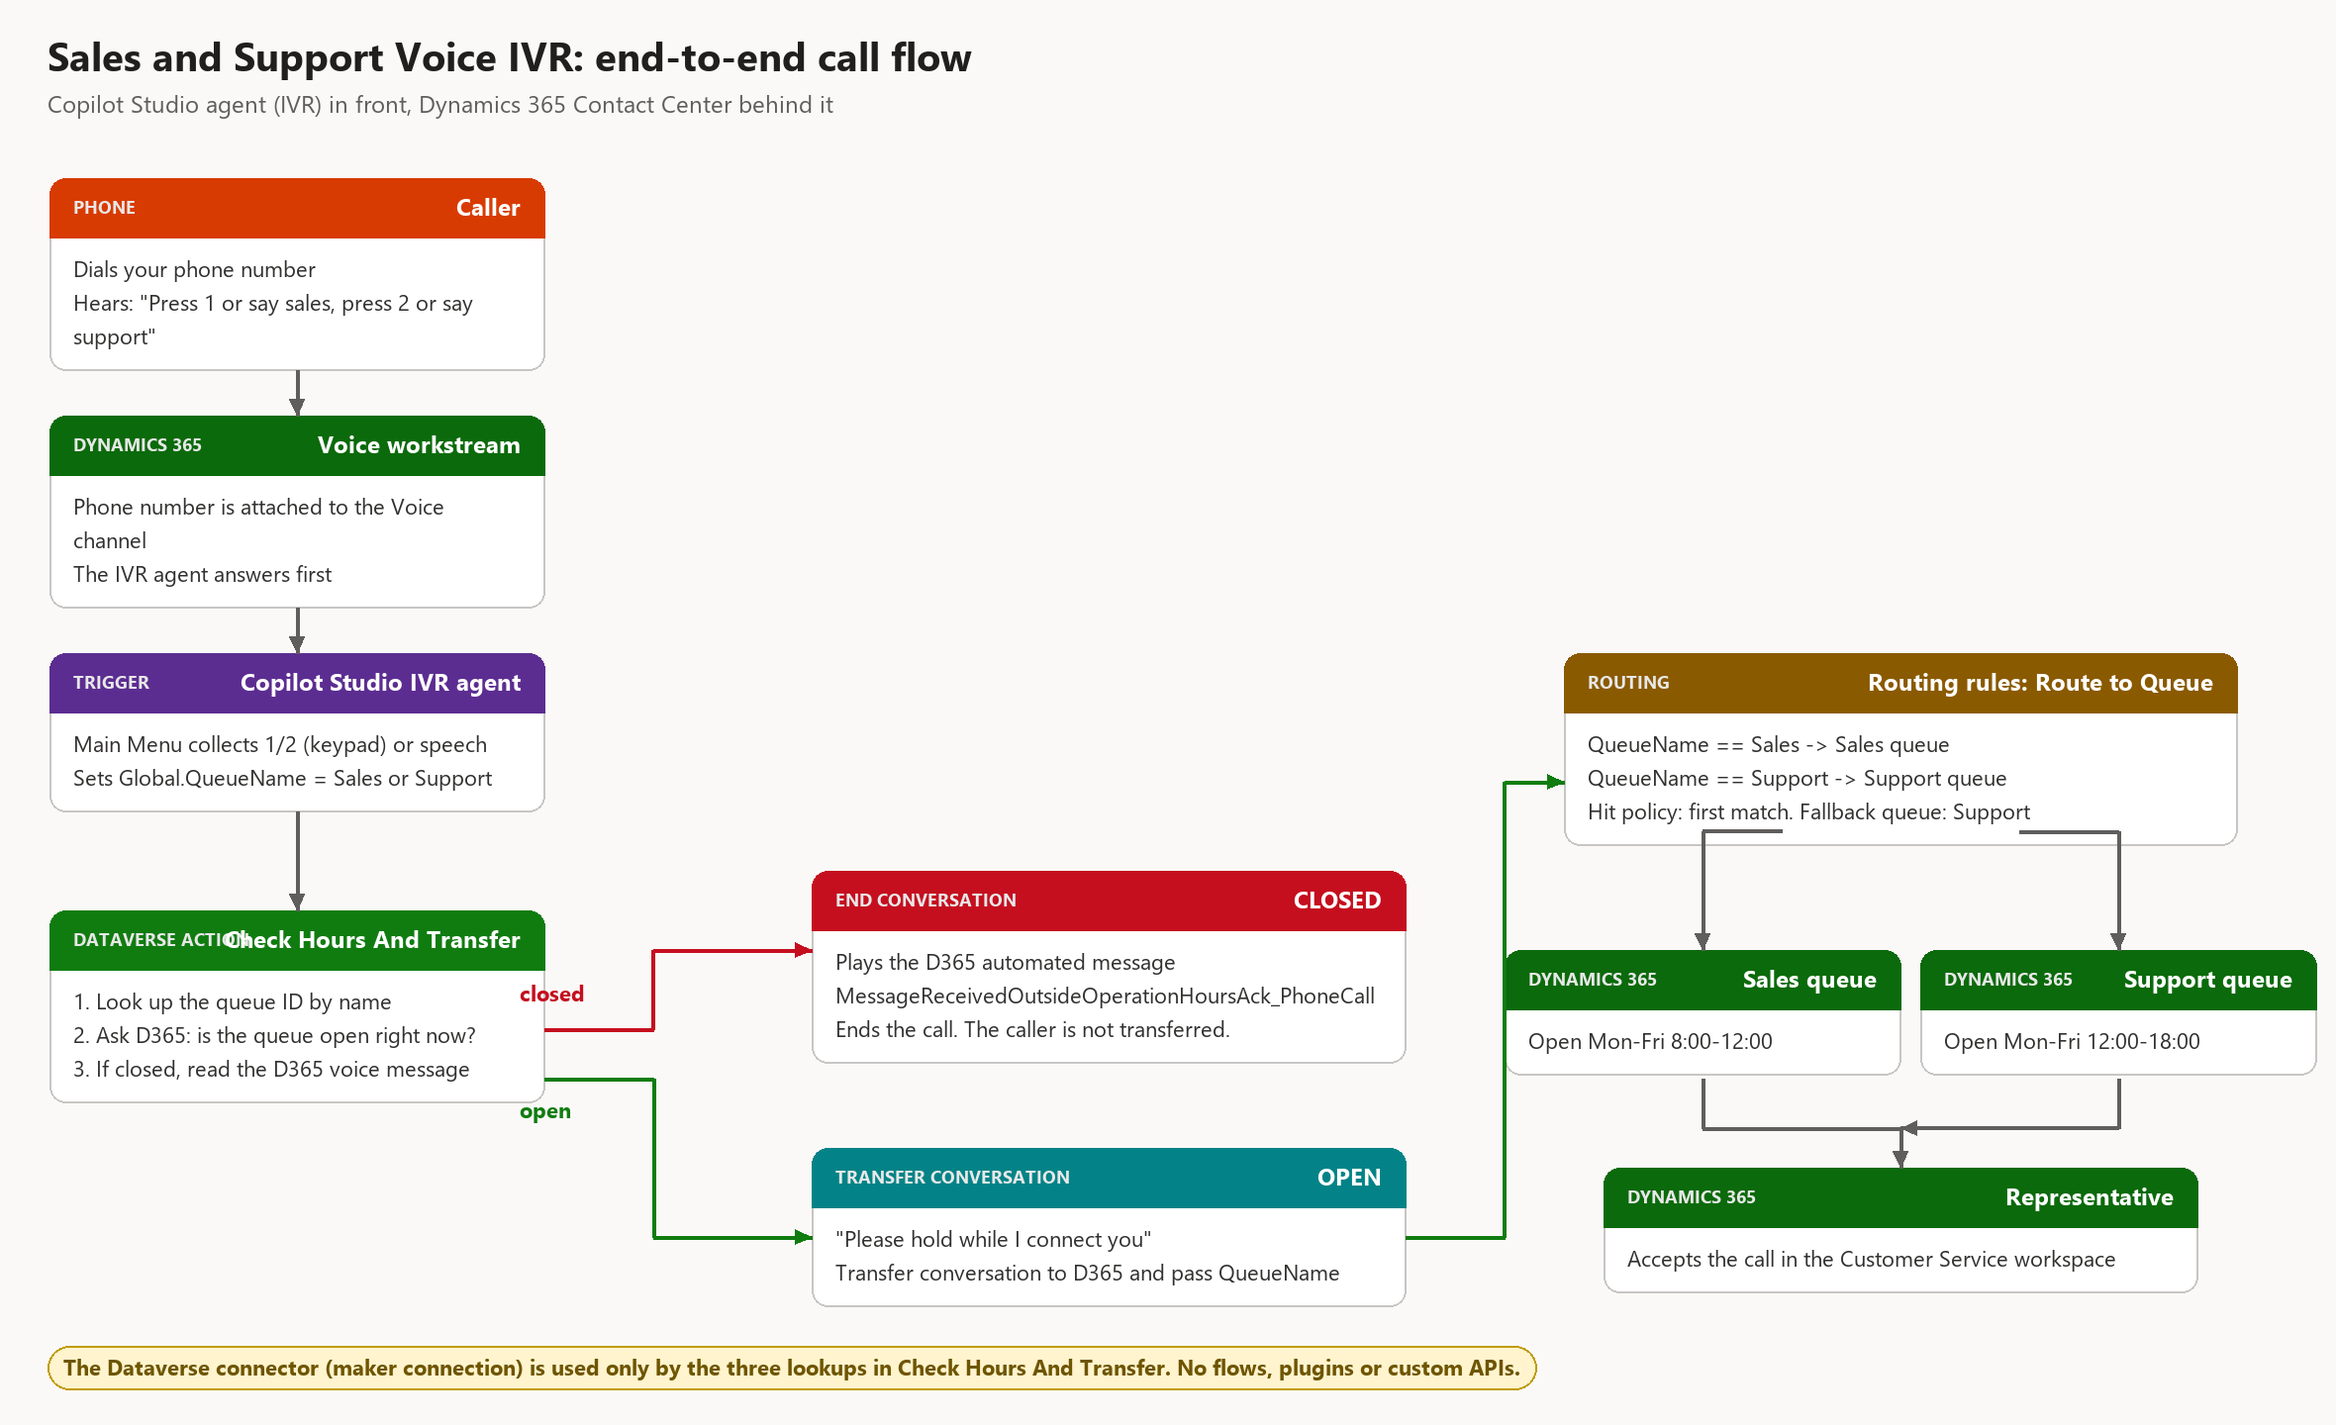
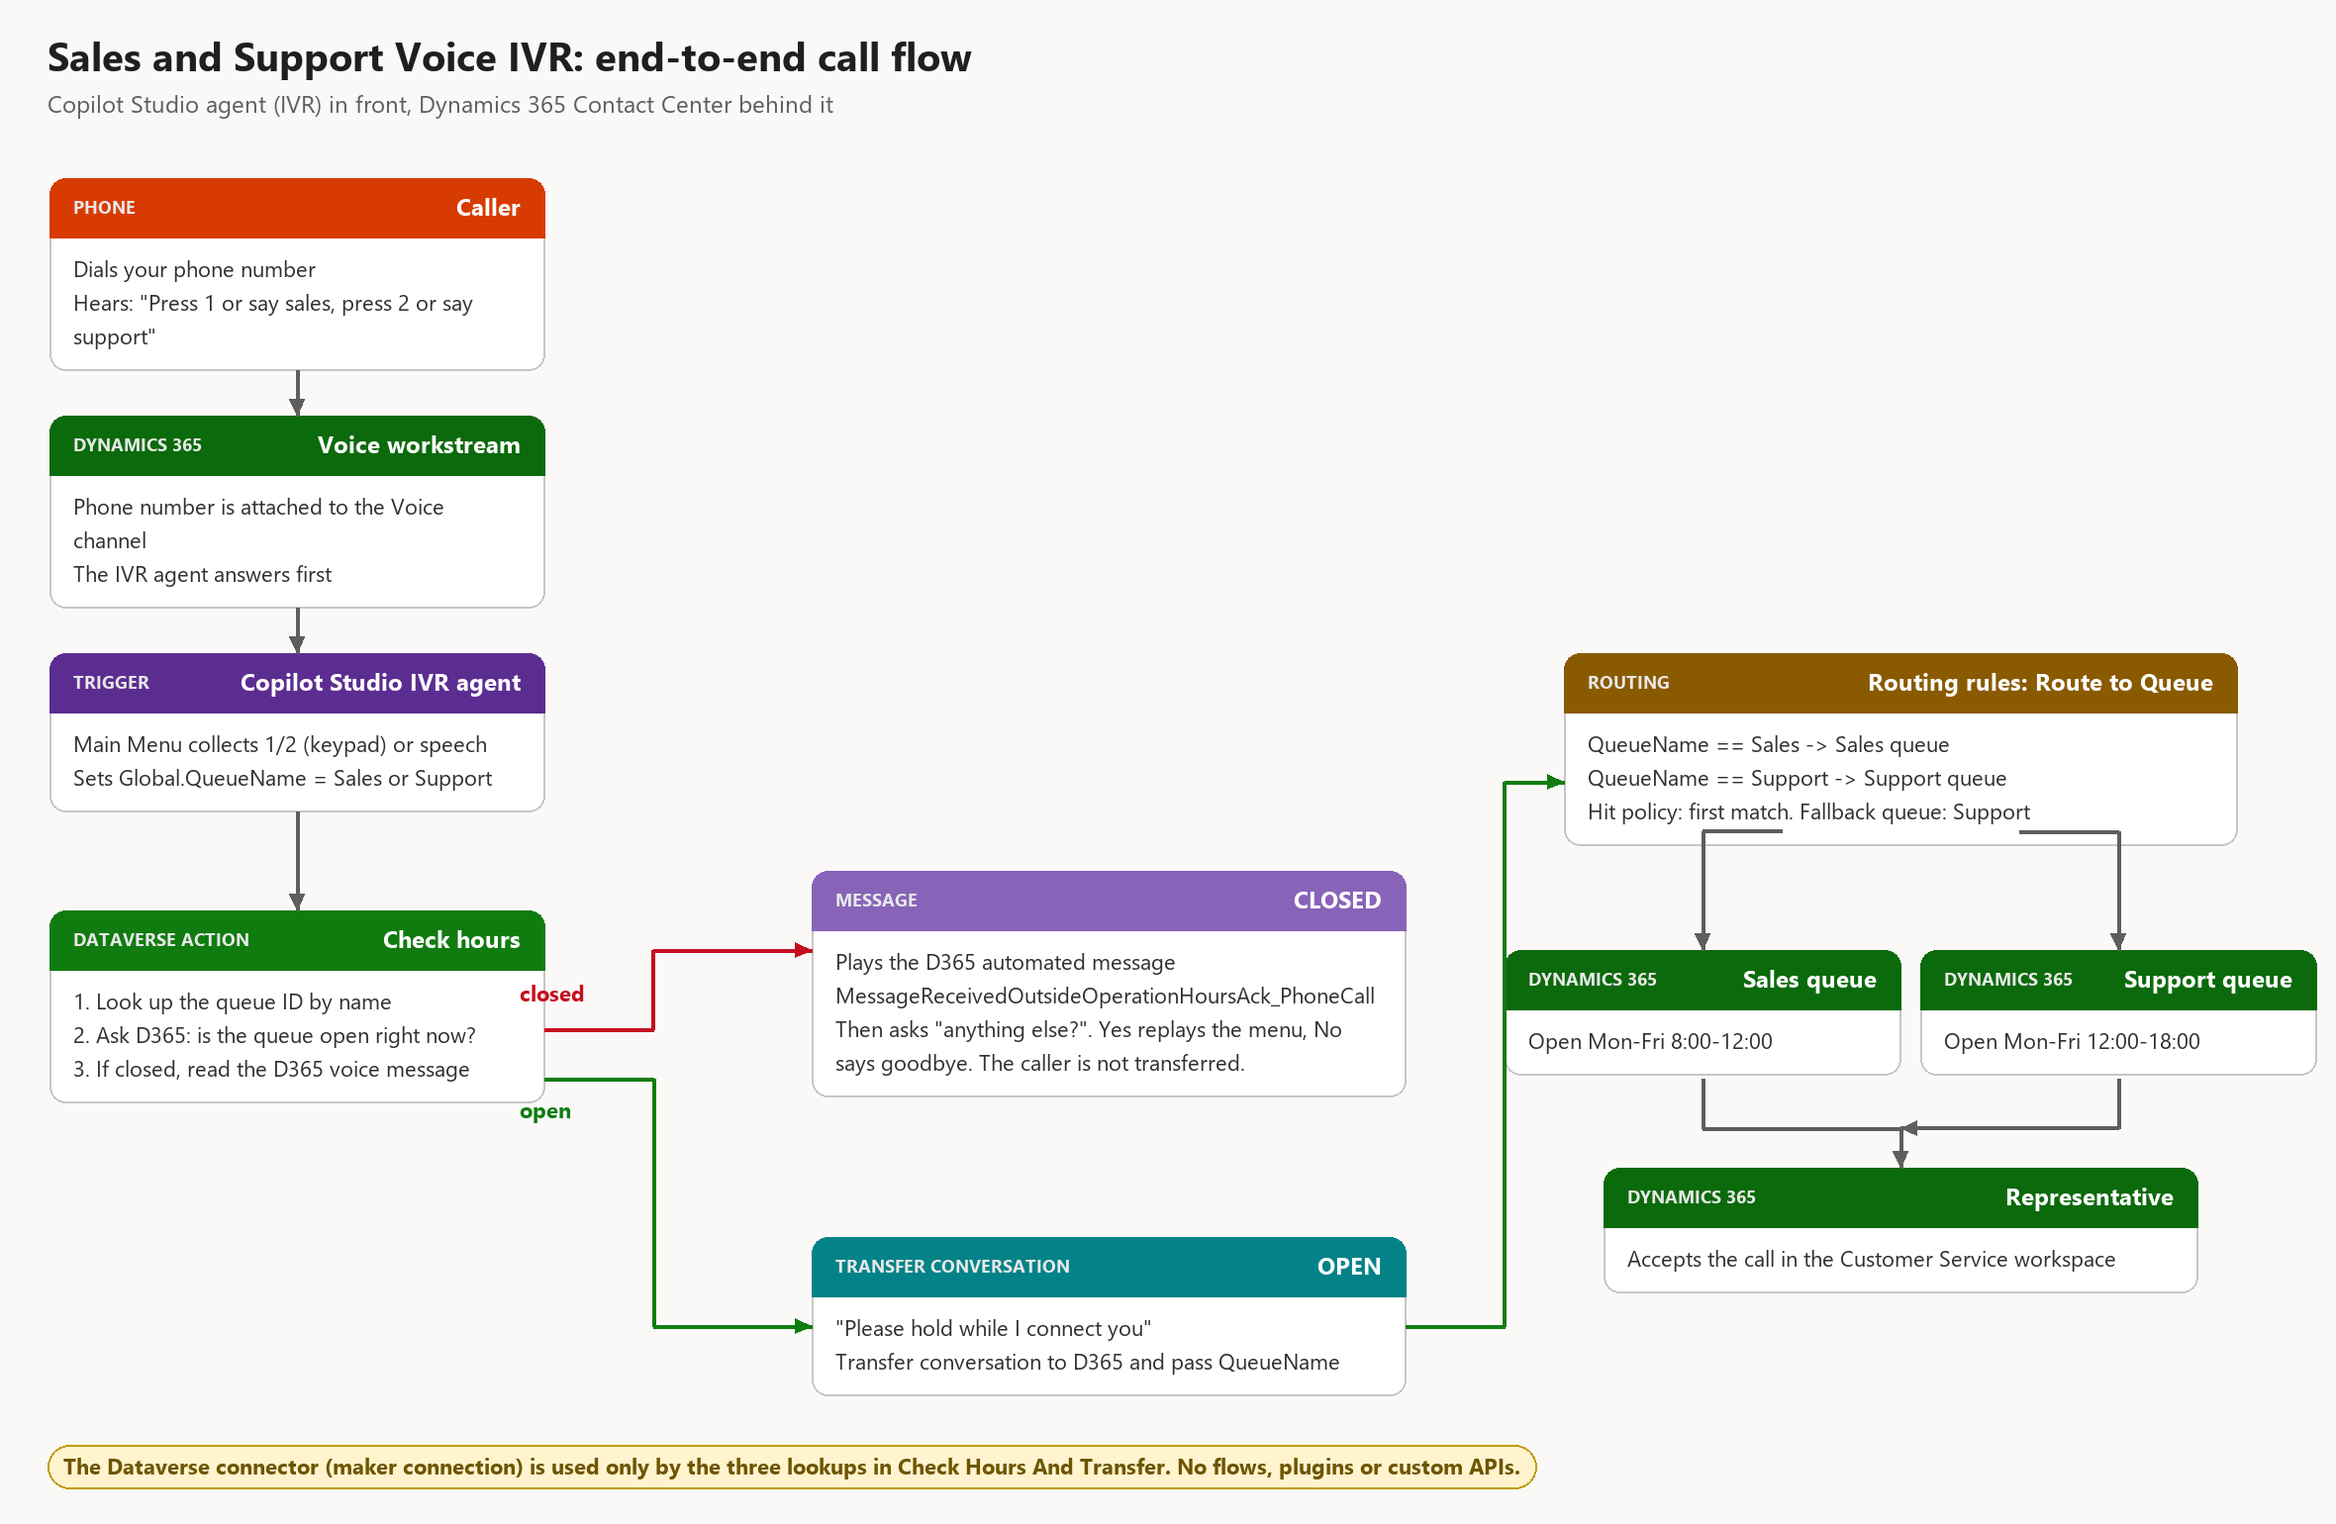
v1.0.1: keep the call open on a closed queue
After the out-of-operating-hours message, ask if there is anything else:
Yes replays the menu, No says goodbye and ends. Multi-turn test script,
updated docs, diagrams and screenshots, re-exported solution 1.0.1.0.

diff --git a/docs/tools/make_diagrams.py b/docs/tools/make_diagrams.py
@@ -105,32 +105,32 @@ class Canvas:
 
 
 def architecture():
-    c = Canvas(1180, 720, 'Sales and Support Voice IVR: end-to-end call flow',
+    c = Canvas(1180, 770, 'Sales and Support Voice IVR: end-to-end call flow',
                'Copilot Studio agent (IVR) in front, Dynamics 365 Contact Center behind it')
     W = 250
     caller = c.card(150, 90, W, 'phone', 'Caller', ['Dials your phone number', 'Hears: "Press 1 or say sales, press 2 or say support"'])
     ws = c.card(150, 210, W, 'd365', 'Voice workstream', ['Phone number is attached to the Voice channel', 'The IVR agent answers first'])
     bot = c.card(150, 330, W, 'start', 'Copilot Studio IVR agent', ['Main Menu collects 1/2 (keypad) or speech', 'Sets Global.QueueName = Sales or Support'])
-    chk = c.card(150, 460, W, 'connector', 'Check Hours And Transfer', ['1. Look up the queue ID by name', '2. Ask D365: is the queue open right now?', '3. If closed, read the D365 voice message'])
+    chk = c.card(150, 460, W, 'connector', 'Check hours', ['1. Look up the queue ID by name', '2. Ask D365: is the queue open right now?', '3. If closed, read the D365 voice message'])
     c.down(caller, ws)
     c.down(ws, bot)
     c.down(bot, chk)
 
-    closed = c.card(560, 440, 300, 'end', 'CLOSED', ['Plays the D365 automated message', 'MessageReceivedOutsideOperationHoursAck_PhoneCall', 'Ends the call. The caller is not transferred.'])
-    opn = c.card(560, 580, 300, 'transfer', 'OPEN', ['"Please hold while I connect you"', 'Transfer conversation to D365 and pass QueueName'])
+    closed = c.card(560, 440, 300, 'message', 'CLOSED', ['Plays the D365 automated message', 'MessageReceivedOutsideOperationHoursAck_PhoneCall', 'Then asks "anything else?". Yes replays the menu, No says goodbye. The caller is not transferred.'])
+    opn = c.card(560, 625, 300, 'transfer', 'OPEN', ['"Please hold while I connect you"', 'Transfer conversation to D365 and pass QueueName'])
     c.arrow([(275, 520), (330, 520), (330, 480), (410, 480)], 'closed', '#c50f1f', lx=-40, ly=-26)
-    c.arrow([(275, 545), (330, 545), (330, 625), (410, 625)], 'open', '#107c10', lx=-40, ly=8)
+    c.arrow([(275, 545), (330, 545), (330, 670), (410, 670)], 'open', '#107c10', lx=-40, ly=8)
 
     rule = c.card(960, 330, 340, 'rule', 'Routing rules: Route to Queue', ['QueueName == Sales -> Sales queue', 'QueueName == Support -> Support queue', 'Hit policy: first match. Fallback queue: Support'])
     sq = c.card(860, 480, 200, 'd365', 'Sales queue', ['Open Mon-Fri 8:00-12:00'])
     pq = c.card(1070, 480, 200, 'd365', 'Support queue', ['Open Mon-Fri 12:00-18:00'])
     rep = c.card(960, 590, 300, 'd365', 'Representative', ['Accepts the call in the Customer Service workspace'])
-    c.arrow([(710, 625), (760, 625), (760, 395), (790, 395)], 'QueueName', '#107c10', lx=-78, ly=130)
+    c.arrow([(710, 670), (760, 670), (760, 395), (790, 395)], 'QueueName', '#107c10', lx=-78, ly=130)
     c.arrow([(900, 420 + 0), (860, 420 + 0), (860, 480)])
     c.arrow([(1020, 420), (1070, 420), (1070, 480)])
     c.arrow([(860, 545), (860, 570), (960, 570), (960, 590)])
     c.arrow([(1070, 545), (1070, 570), (960, 570)])
-    c.tag(24, 680, 'The Dataverse connector (maker connection) is used only by the three lookups in Check Hours And Transfer. No flows, plugins or custom APIs.')
+    c.tag(24, 730, 'The Dataverse connector (maker connection) is used only by the three lookups in Check Hours And Transfer. No flows, plugins or custom APIs.')
     c.save('01-architecture.png')
 
 
@@ -159,7 +159,7 @@ def conv_start_menu():
 
 
 def check_hours():
-    c = Canvas(1260, 1190, 'Topic: Check Hours And Transfer', 'cr_salesandsupportivr.topic.CheckHoursAndTransfer. All three Dataverse actions use the maker connection, so callers never sign in.')
+    c = Canvas(1260, 1540, 'Topic: Check Hours And Transfer', 'cr_salesandsupportivr.topic.CheckHoursAndTransfer. All three Dataverse actions use the maker connection, so callers never sign in.')
     W = 430
     cx = 330
     n0 = c.card(cx, 80, W, 'start', 'Check Hours And Transfer', ['Recognized intent (empty). Started from Main Menu.'])
@@ -185,10 +185,16 @@ def check_hours():
     c1 = c.card(X, 790, 340, 'connector', 'CLOSED: List rows: voice message', ['Table: msdyn_ocsystemmessages', 'Row: MessageReceivedOutsideOperationHoursAck_PhoneCall', 'Reads msdyn_messagetext'])
     c2 = c.card(X, 930, 340, 'variable', 'Set variable', ['Topic.OohMessage = the D365 message, or a built-in fallback sentence'])
     c3 = c.card(X, 1016, 340, 'message', 'Message', ['Speech and text: {Topic.OohMessage}'])
-    c4 = c.card(X, 1100, 340, 'end', 'End conversation', ['The call ends. Nobody is transferred.'])
+    c4 = c.card(X, 1102, 340, 'question', 'Question: anything else?', ['"Is there anything else I can help you with? Press 1 or say yes, press 2 or say no."', 'Closed list: Yes (keypad 1), No (keypad 2)'])
+    c5 = c.card(X, 1248, 340, 'condition', 'Condition', ['AnythingElse = Yes  ->  Go to Main Menu (the menu is played again)', 'else (No)  ->  continue below'])
+    c6 = c.card(X, 1360, 340, 'message', 'Message', ['"Thank you for calling. Goodbye."'])
+    c7 = c.card(X, 1440, 340, 'end', 'End conversation', ['The call ends only after the caller says no. Nobody is transferred.'])
     c.down(c1, c2)
     c.down(c2, c3)
     c.down(c3, c4)
+    c.down(c4, c5)
+    c.down(c5, c6)
+    c.down(c6, c7)
     c.arrow([(n7[2], 868), (n7[2] + 45, 868), (n7[2] + 45, 830), (X - 170, 830)], None, '#c50f1f')
     c.tag(n7[2] + 55, 876, 'yes: closed', '#fde7e9', '#c50f1f', '#750b1c')
 

diff --git a/README.md b/README.md
@@ -5,7 +5,7 @@ A ready-to-install **Copilot Studio voice IVR** for **Dynamics 365 Contact Cente
 - answers a call and offers **"press 1 or say sales"** and **"press 2 or say support"**
 - checks the **operating hours of the chosen queue** before it transfers anything
 - if the queue is **open**, transfers the call to Dynamics 365 and routes it to the right queue (**Sales** or **Support**)
-- if the queue is **closed**, plays the **out-of-operating-hours voice message configured in Dynamics 365** and ends the call, so nobody is transferred to an empty queue
+- if the queue is **closed**, plays the **out-of-operating-hours voice message configured in Dynamics 365**, then **asks if there is anything else it can help with**: "yes" goes back to the menu, "no" says goodbye and ends the call. Nobody is transferred to an empty queue and the call is never dropped right after the message
 
 It uses only built-in pieces: no Power Automate flows, no plugins, no custom APIs, no Azure resources.
 
@@ -42,7 +42,7 @@ Full steps, prerequisites and the time zone table are in [docs/INSTALL.md](docs/
 1. The caller dials the number. The voice workstream hands the call to the **IVR agent first**.
 2. **Main Menu** asks the question and accepts keypad **1/2** or the spoken words **sales/support**. It stores the choice in `Global.QueueName`.
 3. **Check Hours And Transfer** looks up the queue by name, then asks Dynamics 365 (built-in action `msdyn_ExpandOperatingHoursForEntityCollection`) whether that queue has an available slot in the next minute.
-4. **Closed**: it reads the voice message `MessageReceivedOutsideOperationHoursAck_PhoneCall` from Dynamics 365, says it, and ends the call.
+4. **Closed**: it reads the voice message `MessageReceivedOutsideOperationHoursAck_PhoneCall` from Dynamics 365 and says it. It then asks **"Is there anything else I can help you with?"** (press 1 or say yes, press 2 or say no). **Yes** replays the menu so the caller can pick the other queue; **No** says goodbye and ends the call.
 5. **Open**: it says "Please hold" and runs **Transfer conversation**, which hands the call to Dynamics 365 and passes `QueueName`.
 6. In Dynamics 365 the **Route to Queue** ruleset reads `QueueName` and puts the call in the Sales or Support queue.
 
@@ -53,10 +53,11 @@ Full steps, prerequisites and the time zone table are in [docs/INSTALL.md](docs/
 | Check | Result |
 |---|---|
 | Real phone calls with keypad (DTMF) into the IVR, hours check, handoff to Dynamics 365 | Verified in the author's environment |
-| Simulated chat: Sales closed -> message played, call ended | Verified |
+| Simulated chat: Sales closed -> message played -> "anything else?" -> No -> goodbye and end | Verified |
+| Simulated chat: Sales closed -> message -> "anything else?" -> Yes -> menu replayed -> Sales -> message -> No -> end | Verified |
 | Simulated chat: Support open -> handoff event with `QueueName=Support` | Verified |
 | Invalid answer -> menu replayed | Verified |
-| Clean install into a **second** environment (import solution, bind connection, publish, run setup script) | Verified: import succeeded, agent published, script completed, both paths tested |
+| Clean install into a **second** environment (import solution, bind connection, publish, run setup script) | Verified on v1.0.0: import succeeded, agent published, script completed, both paths tested. v1.0.1 changes only the closed-branch topic and was tested in the author's environment. |
 | Managed solution import | Exported and inspected; the unmanaged package is the one used in the install test |
 
 ## Known limitations

diff --git a/docs/HOW-IT-WORKS.md b/docs/HOW-IT-WORKS.md
@@ -51,6 +51,7 @@ You will see these in every screenshot.
 | `Topic.MenuChoice` | Main Menu | The question | The option the caller picked. |
 | `Topic.QueueClosed` | Check Hours | Check Hours | `true` when the queue has no available slot right now. |
 | `Topic.HoursResponse`, `Topic.QueueLookup`, `Topic.OohResponse`, `Topic.OohMessage` | Check Hours | Dataverse actions | Raw results and the message text. |
+| `Topic.AnythingElse` | Check Hours | The follow-up question | Yes (back to the menu) or No (goodbye). |
 
 ---
 
@@ -183,7 +184,22 @@ No `"Available"` slot in the next minute means the queue is closed.
 1. **List rows** from table `msdyn_ocsystemmessages` for the row named **`MessageReceivedOutsideOperationHoursAck_PhoneCall`**. This is the **voice automated message configured in Dynamics 365**. It is read live on every call, so changing it in Dynamics 365 changes what callers hear with no agent change and no republish.
 2. **Set variable** `Topic.OohMessage` = that message, or a built-in fallback sentence if none is found.
 3. **Message** that speaks `{Topic.OohMessage}`.
-4. **End conversation.** The call ends. **Nobody is transferred.**
+
+   ![Closed message and follow-up question](images/ui-12-closed-anything-else-question.png)
+
+4. **Question: "Is there anything else I can help you with?"** The call is **not dropped** after the message. This is a closed-list question (Yes = keypad 1, No = keypad 2) with interruptions off, saved to `Topic.AnythingElse`.
+
+   ![Yes and No options](images/ui-13-closed-yes-no-options.png)
+
+5. **Condition** on `AnythingElse`:
+   - **Yes**: **Go to another topic: Main Menu**. The menu is played again, so the caller can try the other queue (which may be open) or the same one.
+   - **All other conditions** (No): a **Message** "Thank you for calling. Goodbye." and then **End conversation**.
+
+   ![Goodbye and end](images/ui-14-closed-goodbye-and-end.png)
+
+   Silence is handled by the **Silence detection** topic, and an unrecognized answer is re-asked by the question itself, so the call only ends when the caller says no (or stays silent).
+
+**Nobody is transferred** on the closed branch.
 
 #### Open branch (All other conditions)
 
@@ -282,7 +298,7 @@ The transfer carries the message **"IVR selection - Sales"** (or Support), so th
 
 | Decision | Reason |
 |---|---|
-| **Check hours in the IVR, not only in Dynamics 365** | Dynamics 365 would still accept the call and then handle the closed queue itself. Checking first lets the IVR end the call cleanly and say the message, so nobody enters a queue with no one working. |
+| **Check hours in the IVR, not only in Dynamics 365** | Dynamics 365 would still accept the call and then handle the closed queue itself. Checking first lets the IVR say the message and keep helping the caller (replay the menu or say goodbye), so nobody enters a queue with no one working. |
 | **Use the built-in hours action** | Dynamics 365 already knows the calendar rules, holidays and time zones. Re-implementing that in the agent would be fragile. |
 | **Read the message from Dynamics 365** | One place to edit wording, no republish. |
 | **Look queues up by name** | Same package works in any environment. |

diff --git a/docs/INSTALL.md b/docs/INSTALL.md
@@ -94,11 +94,11 @@ Add the people who should take calls to the **Sales** and **Support** queues (Cu
 **Without a phone** (text simulation, both paths):
 
 ```powershell
-./scripts/Test-IvrConversation.ps1 -EnvironmentId <environment GUID> -Say Sales
+./scripts/Test-IvrConversation.ps1 -EnvironmentId <environment GUID> -Say Sales,No
 ./scripts/Test-IvrConversation.ps1 -EnvironmentId <environment GUID> -Say Support
 ```
 
-Closed queues play the Dynamics 365 message and end. Open queues print a `handoff.initiate` event containing `QueueName=...`.
+Closed queues play the Dynamics 365 message and then ask "anything else?": answer `Yes` to replay the menu or `No` to hear goodbye and end. Open queues print a `handoff.initiate` event containing `QueueName=...`.
 
 **With a phone**: call the number and try 1, 2, the words *sales* and *support*, an invalid key such as 3, and silence. Call **inside** and **outside** each queue's hours.
 
